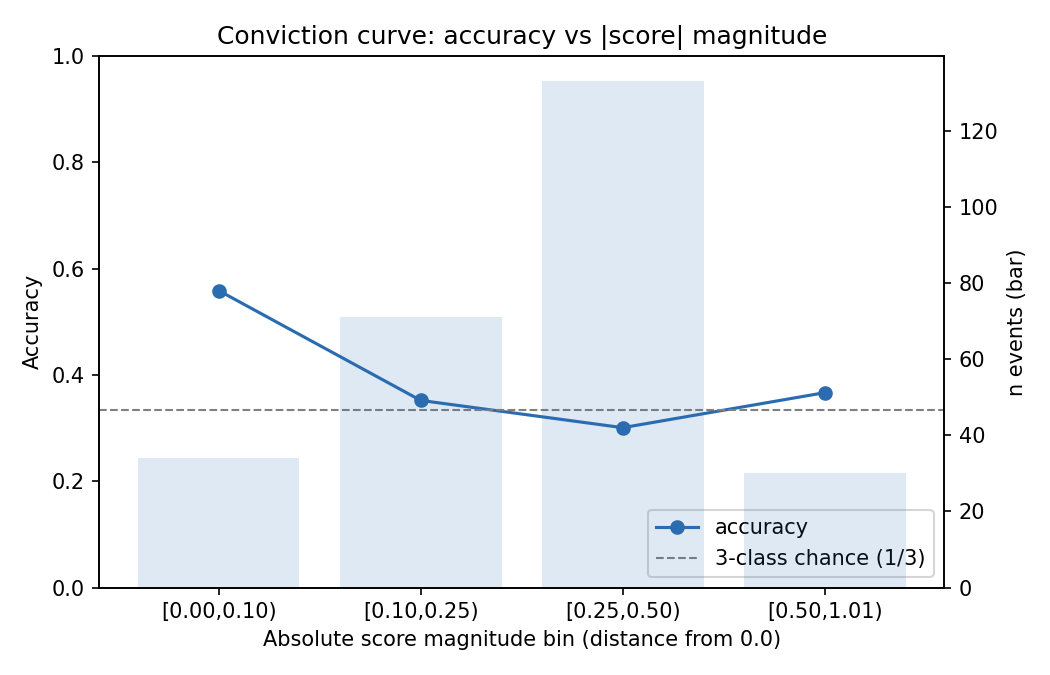
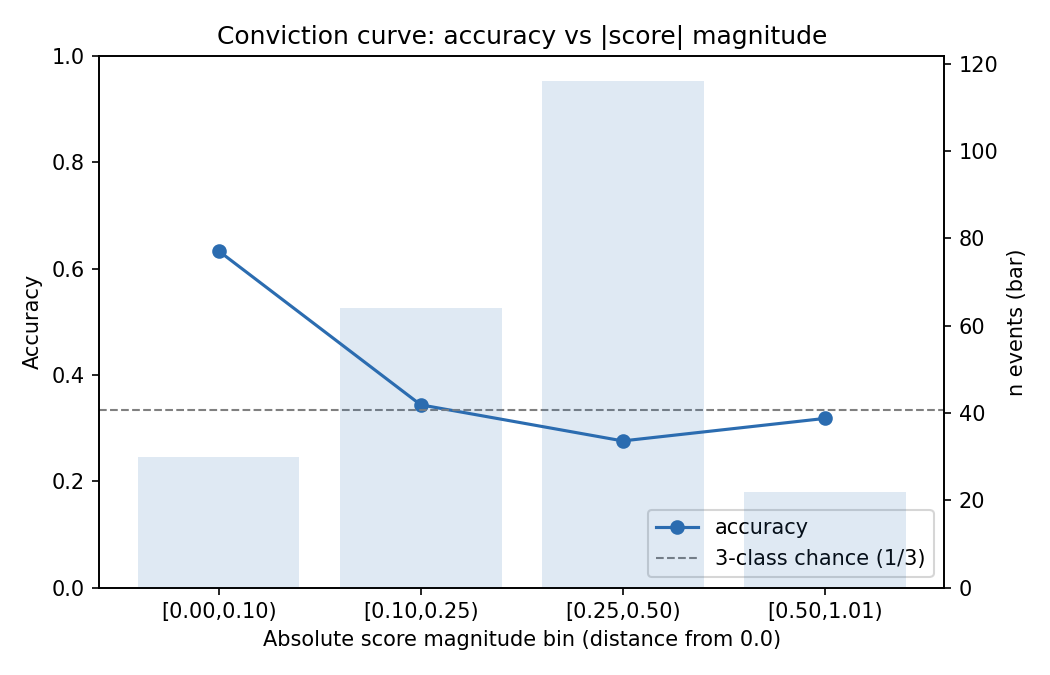
fix: apply the clean-universe exclusions in asymmetry_conviction_analysis
The script read all 268 calibration rows with no exclusion source at all
(ledger L13, flagged 2026-08-25): not eval/excluded_events, not the
worksheet-leak flags, not the timing exclusions. It now applies the same
three sources every other consumer uses, so it runs on N=232.

Regenerated artifacts move accordingly (268 -> 232): recall gap
BUY 0.514->0.491, SELL 0.286->0.270, gap +0.228->+0.221 (z p 0.0044->0.0124,
bootstrap p 0.005->0.0088 - direction and verdict survive); |score| vs
|forward_return| Spearman 0.2288->0.2311 (p 0.0004). No workbook cell
publishes any of the moved figures (checked by token scan).

diff --git a/experiments/asymmetry_conviction_analysis.py b/experiments/asymmetry_conviction_analysis.py
@@ -32,8 +32,11 @@ from scipy.stats import norm, spearmanr
 from backtest import OUTPUTS_DIR
 from blend import DEFAULT_WEIGHTS, blend_scores, derive_signal
 from bootstrap_stats import bootstrap_unpaired_difference
+from eval.excluded_events import EXCLUDED_EVENTS
 
 PHASE2_CALIBRATION_CSV = OUTPUTS_DIR / "global" / "summary" / "global_outcome_calibration_phase2.csv"
+LEAK_FLAGS_CSV = OUTPUTS_DIR / "global" / "summary" / "worksheet_leak_flags.csv"
+RETURNS_MATRIX_CSV = OUTPUTS_DIR / "global" / "summary" / "returns_matrix.csv"
 CONFUSION_CSV = OUTPUTS_DIR / "global" / "summary" / "asymmetry_direction_confusion.csv"
 MAGNITUDE_CSV = OUTPUTS_DIR / "global" / "summary" / "asymmetry_magnitude_bins.csv"
 SCORE_MAGNITUDE_CSV = OUTPUTS_DIR / "global" / "summary" / "asymmetry_score_magnitude_bins.csv"
@@ -50,10 +53,30 @@ def _num(x):
     return float(x)
 
 
+def clean_universe_exclusions() -> set[str]:
+    """The same three exclusion sources every other consumer applies:
+    eval/excluded_events.py (bad documents), worksheet leakage, and the
+    timing-excluded flag in returns_matrix.csv. This script read the full
+    N=268 calibration file without any of them until 2026-08-21 (ledger L13)."""
+    excluded = set(EXCLUDED_EVENTS)
+    with open(LEAK_FLAGS_CSV, encoding="utf-8") as fh:
+        for r in csv.DictReader(fh):
+            if r["has_human_score"] == "True":
+                excluded.add(r["document_id"])
+    with open(RETURNS_MATRIX_CSV, encoding="utf-8") as fh:
+        for r in csv.DictReader(fh):
+            if r["timing_excluded"] == "YES":
+                excluded.add(r["document_id"])
+    return excluded
+
+
 def load_rows(path: Path = PHASE2_CALIBRATION_CSV) -> list[dict]:
+    excluded = clean_universe_exclusions()
     rows = []
     with open(path, encoding="utf-8") as fh:
         for r in csv.DictReader(fh):
+            if r["document_id"] in excluded:
+                continue
             micro = _num(r["micro_score"])
             macro = _num(r["macro_score"])
             news = _num(r["news_score"])
